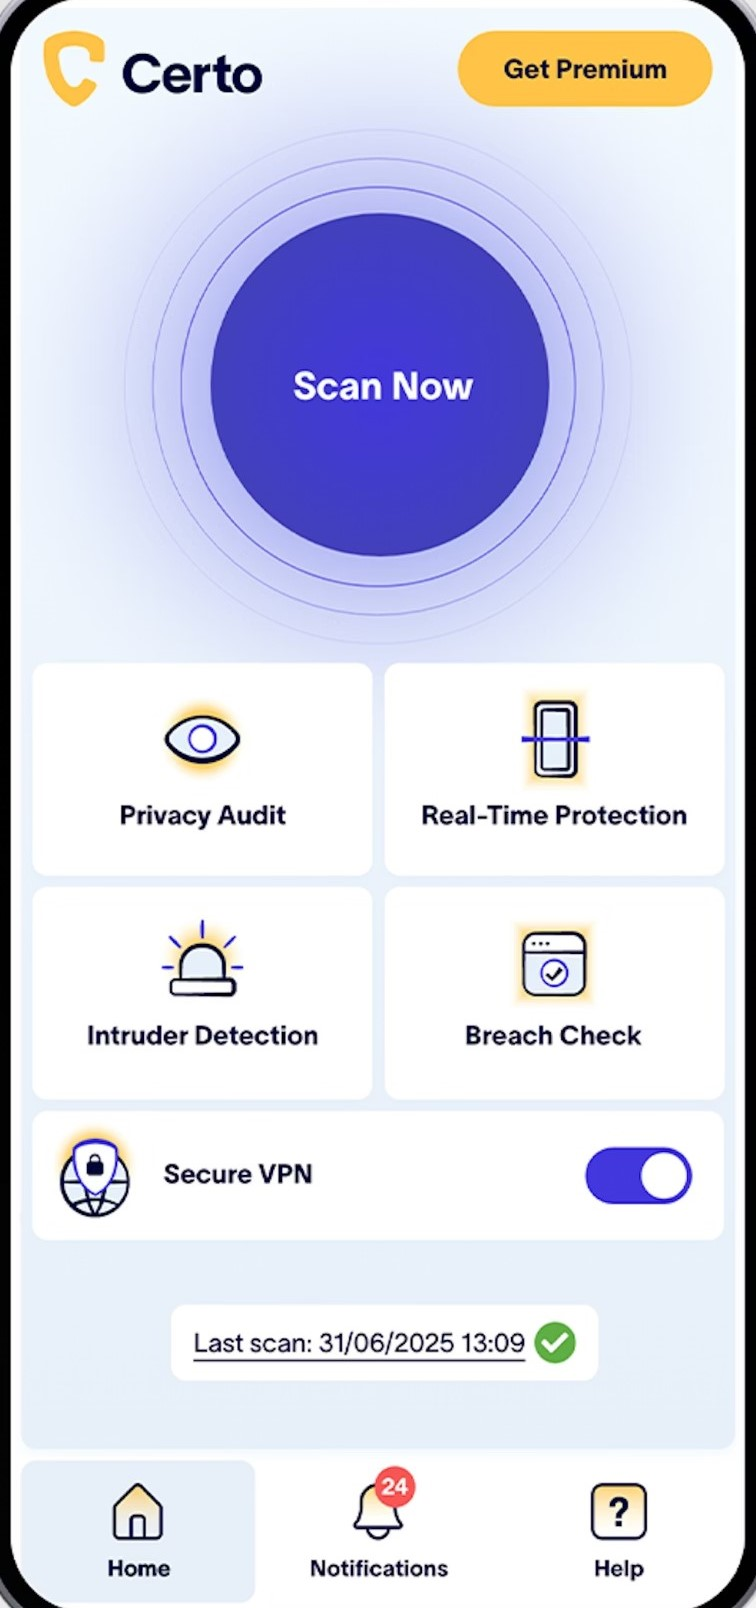
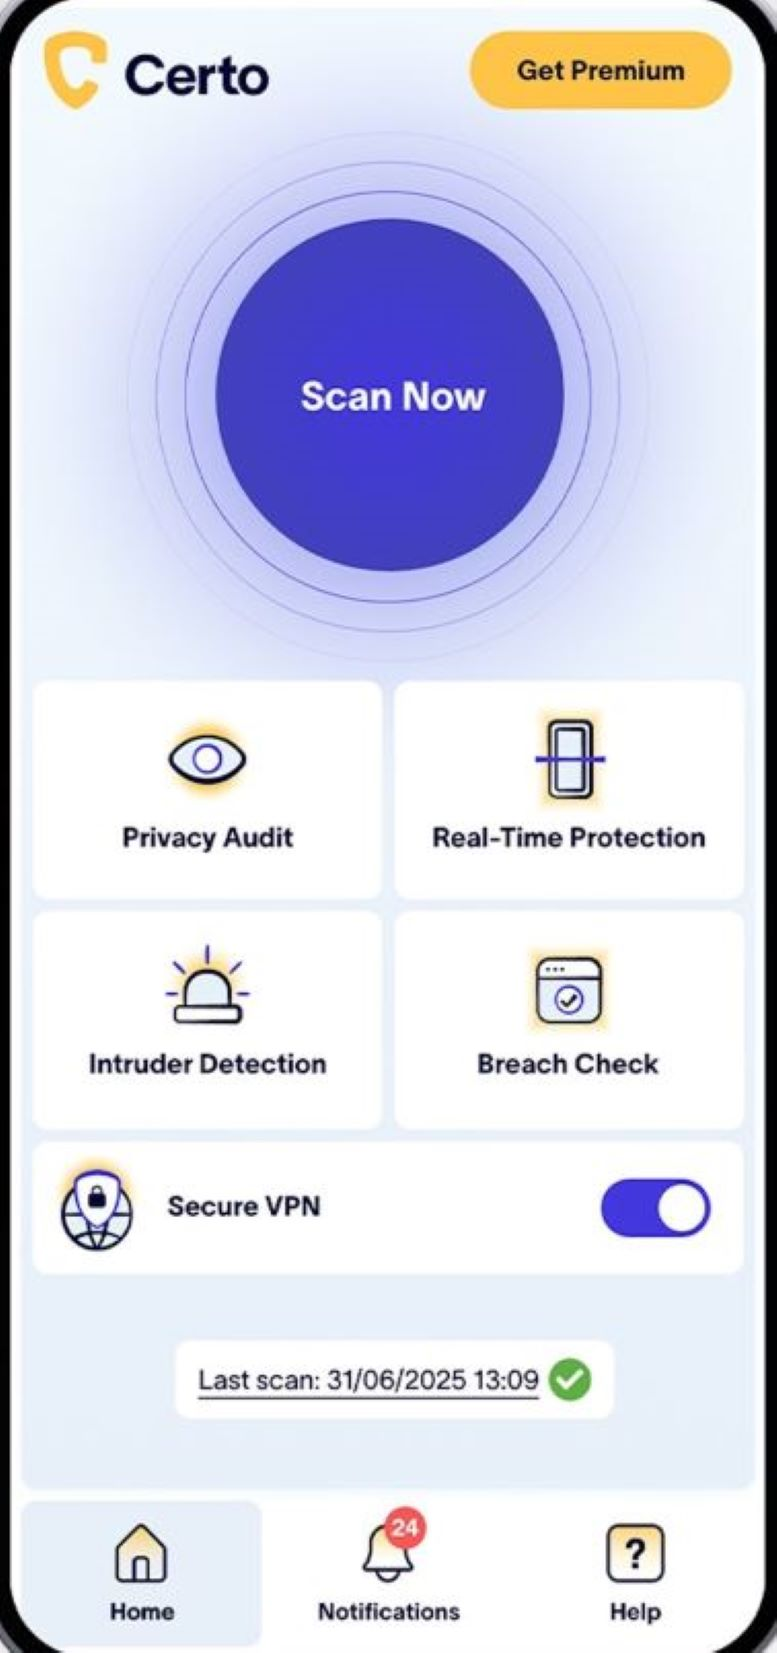
Hero section

diff --git a/assets/style.css b/assets/style.css
@@ -63,72 +63,48 @@ body {
     color: #120e3a !important;
     font-weight: 600 !important;
 }
-/* Hero Section Background */
+/* Keep your brand colors and navbar code as is, but replace the Hero CSS with this: */
+
 .hero-section {
+    padding: 80px 0;
     background: linear-gradient(135deg, #f8faff 0%, #eef3ff 100%);
     overflow: hidden;
 }
 
-/* Text Styling */
-.hero-title {
-    color: #120e3a;
-    font-size: 52px;
-    font-weight: 800;
-    line-height: 1.1;
-}
-
-.hero-subtitle {
-    font-size: 1.2rem;
-    color: #120e3a;
-    margin: 30px 0;
-}
-
-/* THE FIX: Image Stacking */
-.image-stack-container {
+/* Use this class for the image container */
+.hero-image-stack {
     position: relative;
     width: 100%;
-    height: 650px; /* Constrains the high-res images */
-    display: flex;
-    justify-content: center;
-    align-items: center;
+    height: 650px;
 }
 
-/* Background Image Layer */
-.img-bg-layer {
+/* Target the images inside the stack */
+.hero-image-stack img:first-child { /* This is your background */
     position: absolute;
-    height: 100%; /* Scales 1496px down to 650px */
-    width: auto;
-    opacity: 0.5; /* Makes it transparent */
-    border-radius: 40px;
+    right: 0;
+    height: 600px;
+    width: 95%;
+    opacity: 0.6;
     z-index: 1;
-    right: 5%; /* Moves it slightly right */
+    border-radius: 40px;
+    object-fit: cover;
 }
 
-/* Phone Image Layer */
-.img-phone-layer {
+.hero-image-stack img:last-child { /* This is your phone */
     position: absolute;
-    height: 110%; /* Makes phone slightly taller than background */
+    left: 0;
+    height: 650px;
     width: auto;
-    z-index: 2; /* Forces it to stay on top */
-    left: 15%; /* Positions it over the background */
-    filter: drop-shadow(0 20px 40px rgba(0,0,0,0.15));
+    z-index: 2;
+    filter: drop-shadow(0 20px 40px rgba(0,0,0,0.2));
 }
 
-/* Button Styling */
-.btn-iphone {
-    background-color: #ffb13b;
-    color: #120e3a;
-    padding: 12px 25px;
-    border-radius: 50px;
-    font-weight: bold;
-    text-decoration: none;
-}
-
-.btn-android {
-    border: 2px solid #120e3a;
-    color: #120e3a;
-    padding: 12px 25px;
-    border-radius: 50px;
-    font-weight: bold;
-    text-decoration: none;
+/* Make it responsive for mobile */
+@media (max-width: 991px) {
+    .hero-image-stack {
+        height: 450px;
+        margin-top: 40px;
+    }
+    .hero-image-stack img:first-child { height: 400px; width: 100%; }
+    .hero-image-stack img:last-child { height: 430px; left: 10%; }
 }

diff --git a/index.html b/index.html
@@ -30,5 +30,32 @@
     </div>
 </nav>
 
+<section class="hero-section" style="padding: 80px 0; background: #f8faff; overflow: hidden;">
+    <div class="container">
+        <div class="row align-items-center">
+            
+            <div class="col-12 col-lg-6">
+                <h1 style="color: #120e3a; font-size: 50px; font-weight: 800;">Your mobile privacy is our mission</h1>
+                <p style="color: #120e3a; font-size: 1.2rem; margin: 25px 0;">Think your phone has been hacked? Our trusted apps make it easy for you to scan, detect and remove threats.</p>
+                <div class="d-flex gap-3">
+                    <a href="#" class="btn btn-warning rounded-pill px-4 py-2 fw-bold">Get Certo for iPhone →</a>
+                    <a href="#" class="btn btn-outline-dark rounded-pill px-4 py-2 fw-bold">Get Certo for Android</a>
+                </div>
+            </div> <div class="col-12 col-lg-6">
+                <div class="hero-image-stack" style="position: relative; width: 100%; height: 600px; display: flex; align-items: center;">
+                    
+                    <img src="assets/css/images/background.jpg" 
+                         style="position: absolute; right: 0; height: 600px; width: 85%; opacity: 0.6; z-index: 1; border-radius: 40px; object-fit: cover;">
+                    
+                    <img src="assets/css/images/phone.jpg" 
+                         style="position: absolute; left: 0; height: 600px; width: auto; z-index: 2; filter: drop-shadow(0 20px 40px rgba(0,0,0,0.2));">
+                
+                </div>
+            </div>
+
+        </div>
+    </div>
+</section>
+
 </body>
 </html>
